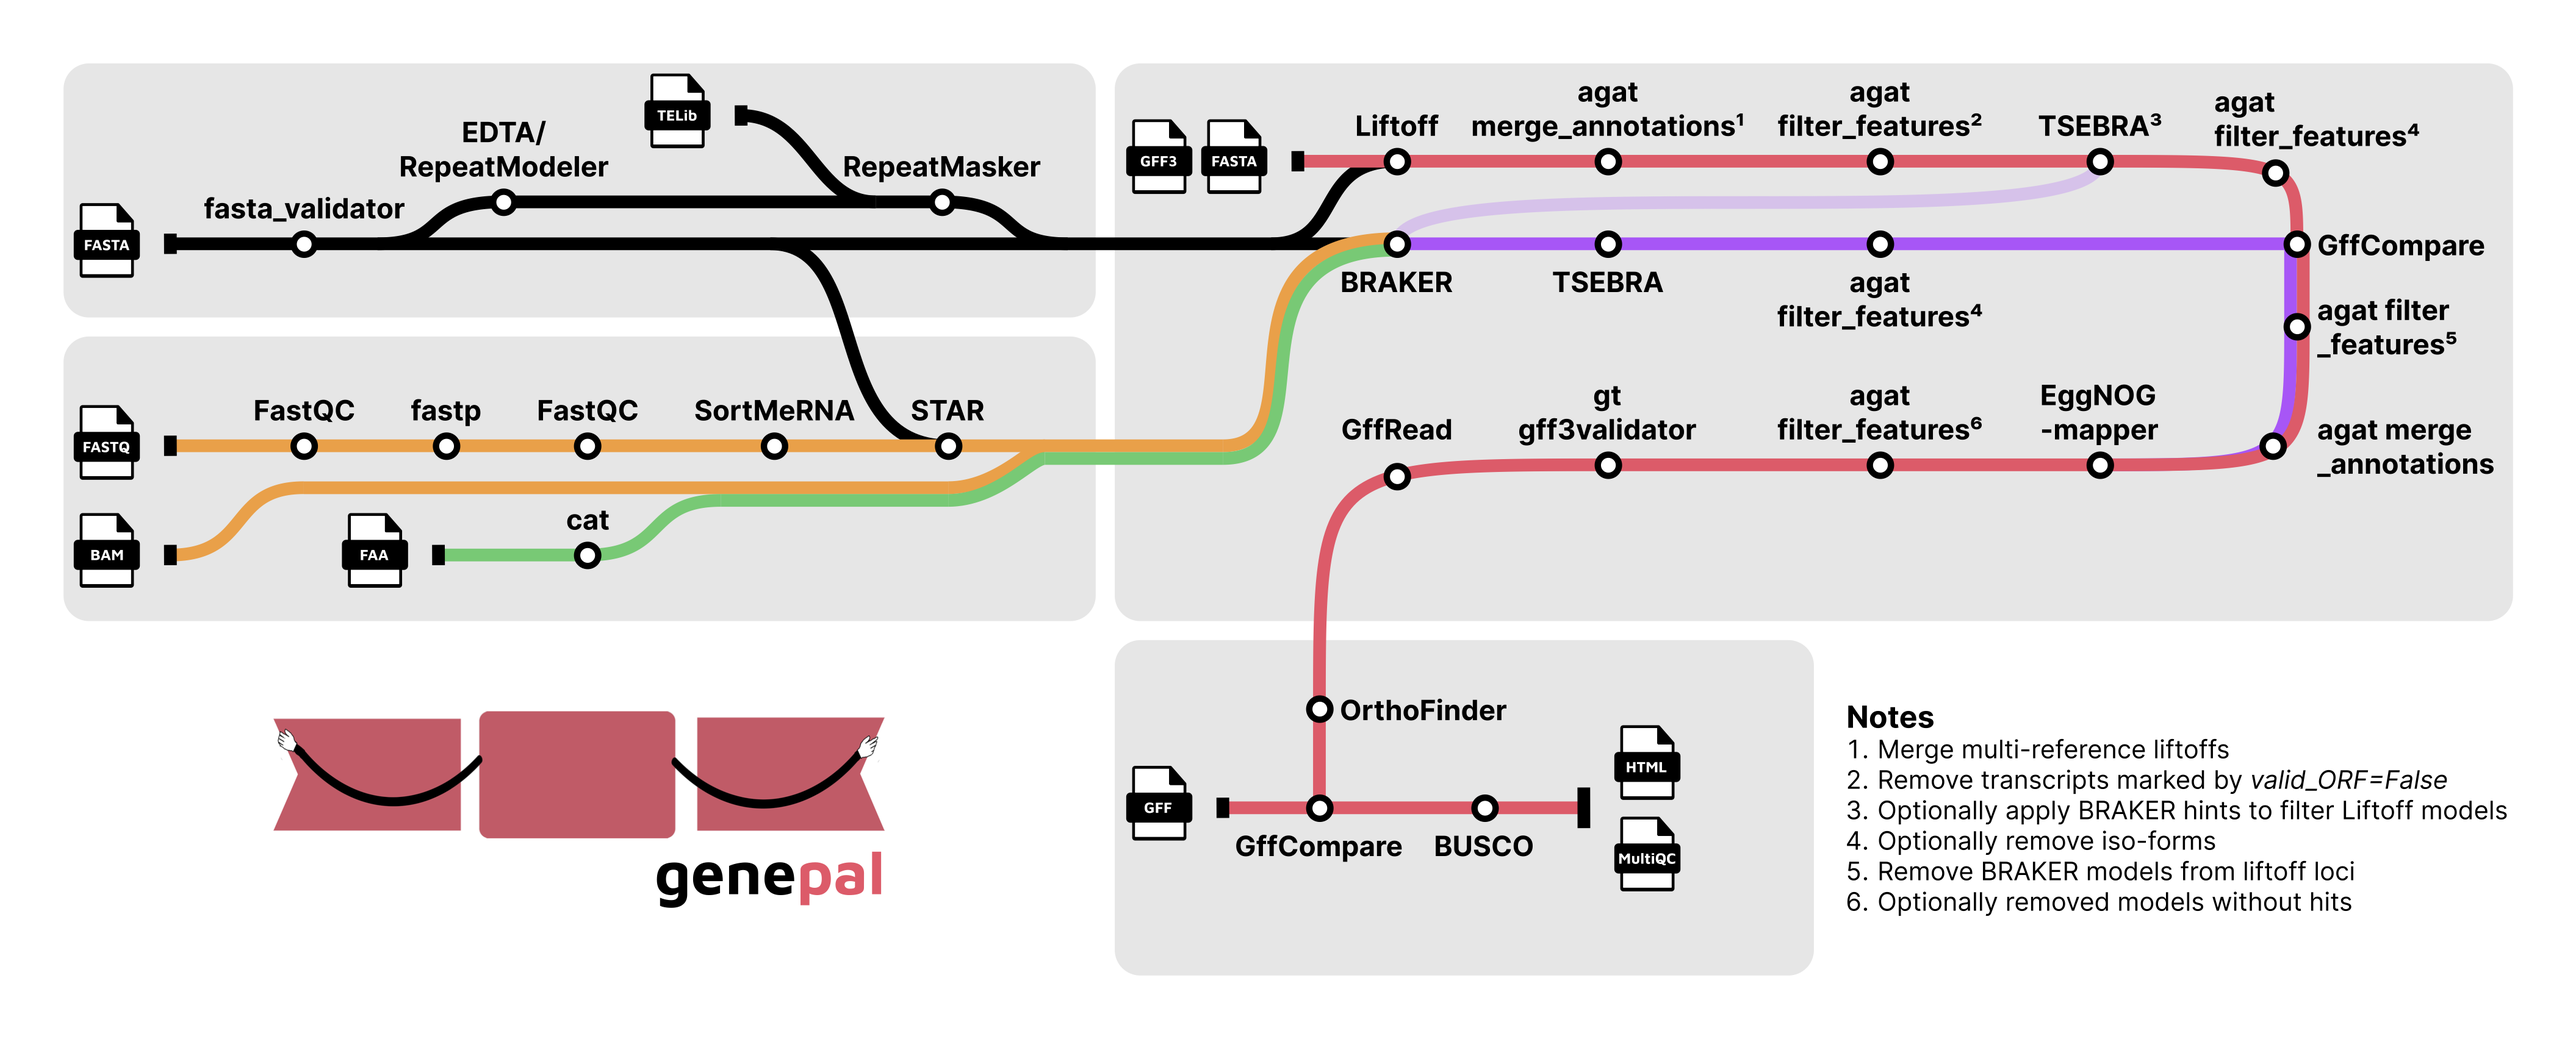
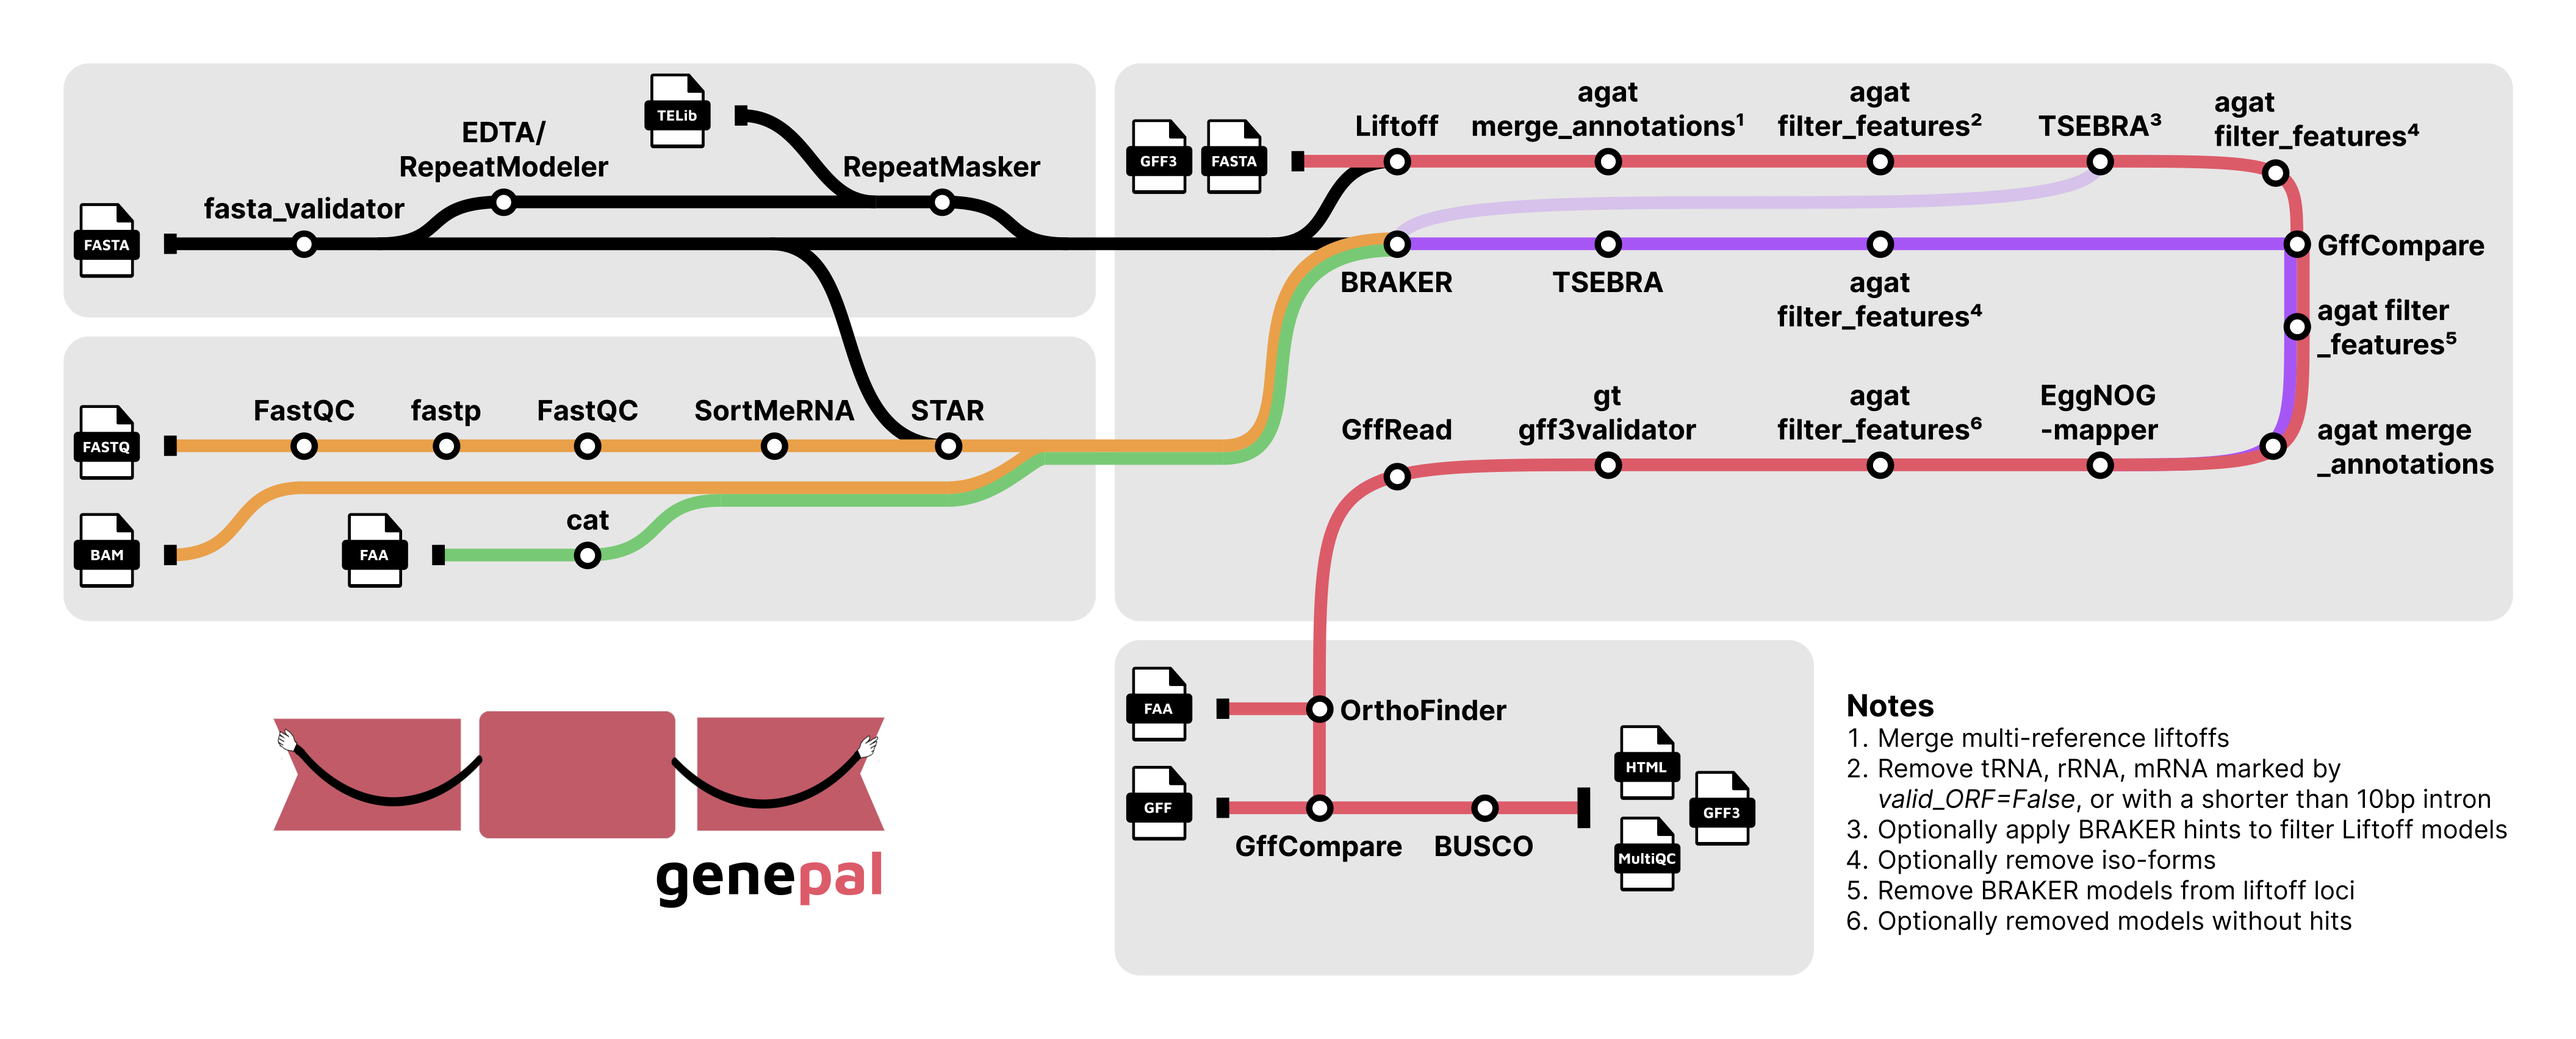
Added a large dataset for test_full

Changed region(s): [[0.7136, 0.6532, 0.9929, 0.902], [0.4344, 0.6221, 0.4964, 0.7154], [0.6516, 0.7465, 0.6826, 0.8398]]

diff --git a/docs/usage.md b/docs/usage.md
@@ -5,6 +5,7 @@
 > This document does not describe every pipeline parameter. For an exhaustive list of parameters, see [parameters.md](./parameters.md).
 
 - [Assemblysheet input](#assemblysheet-input)
+  - [Advanced inputs for manual resume](#advanced-inputs-for-manual-resume)
 - [Protein evidence](#protein-evidence)
   - [BRAKER workflow](#braker-workflow)
 - [RNASeq evidence](#rnaseq-evidence)
@@ -39,7 +40,17 @@ You will need to create an assemblysheet with information about the genome assem
 - `tag:` A unique tag which represents the target assembly throughout the pipeline. The `tag` and `fasta` file name should not be same, such as `tag.fasta`. This can create file name collisions in the pipeline or result in file overwrite. It is also a good-practice to make all the input files read-only.
 - `fasta:` FASTA file for the genome
 - `is_masked:` Whether the FASTA is masked or not? Use yes/no to indicate the masking. If the assembly is not masked. The pipeline will soft mask it before annotating it.
-- `te_lib [Optional]`: If an assembly is not masked and a TE library is available which cna be used to mask the assembly, the path of the TE library FASTA file can be provided here. If this column is absent and the assembly is not masked, the pipeline will first create a TE library so that it can soft mask the assembly.
+- `te_lib [Optional]:` If an assembly is not masked and a TE library is available which cna be used to mask the assembly, the path of the TE library FASTA file can be provided here. If this column is absent and the assembly is not masked, the pipeline will first create a TE library so that it can soft mask the assembly.
+- `benchmark [Optional]:` A GFF3 file which can be used to benchmark or compare the results of the pipeline against an existing annotation.
+
+### Advanced inputs for manual resume
+
+If the pipeline fails while processing large datasets, it is advisable to backup the repeat-masked genomes and the BRAKER outputs before attempting a [Nextflow resume](https://www.nextflow.io/docs/latest/cache-and-resume.html#caching-and-resuming). If the resume fails, these outputs from the first pipeline run can be used to setup a manual resume. This can be achieved by providing the repeat-masked genomes under the `fasta` column along with `is_masked` column set to `yes`. The BRAKER outputs can be provided under the following columns,
+
+- `braker_gff3 [Optional]:` BRAKER GFF3 file
+- `braker_hints [Optional]:` BRAKER hints file in GFF3 format
+
+The pipeline will automatically skip the repeat modelling, masking and BRAKER steps. It will still perform these steps for those genomes for which these files are not provided. These files are not saved by the pipeline by default. To save the files, set the `repeatmasker_save_outputs` and `braker_save_outputs` parameters to `true`.
 
 ## Protein evidence
 

diff --git a/README.md b/README.md
@@ -29,16 +29,16 @@
   - With protein evidence alone, [BRAKER workflow C](https://github.com/Gaius-Augustus/BRAKER/tree/f58479fe5bb13a9e51c3ca09cb9e137cab3b8471?tab=readme-ov-file#overview-of-modes-for-running-braker) is executed
   - With protein plus RNASeq evidence, [BRAKER workflow D](https://github.com/Gaius-Augustus/BRAKER/tree/f58479fe5bb13a9e51c3ca09cb9e137cab3b8471?tab=readme-ov-file#overview-of-modes-for-running-braker) is executed
 - [Liftoff](https://github.com/agshumate/Liftoff): Optionally, liftoff annotations from reference genome FASTA/GFF
-- [TSEBRA](https://github.com/Gaius-Augustus/TSEBRA)
-  - Ensure that each BRAKER model has [full intron support](./docs/usage.md#iso-forms-and-full-intron-support)
-  - Optionally, ensure that each Liftoff model has full intron support
+- [TSEBRA](https://github.com/Gaius-Augustus/TSEBRA): Optionally, ensure that each BRAKER or both BRAKER and Liftoff models have [full intron support](./docs/usage.md#iso-forms-and-full-intron-support)
 - [AGAT](https://github.com/NBISweden/AGAT)
   - Merge multi-reference liftoffs
   - Remove liftoff transcripts marked by _valid_ORF=False_
+  - Remove liftoff genes with any intron shorter than 10 bp
+  - Remove rRNA and tRNA from liftoff
   - Optionally, allow or remove iso-forms
   - Remove BRAKER models from Liftoff loci
-  - Optionally, remove models without any EggNOG-mapper hits
   - Merge Liftoff and BRAKER models
+  - Optionally, remove models without any EggNOG-mapper hits
 - [EggNOG-mapper](https://github.com/eggnogdb/eggnog-mapper): Add functional annotation to gff
 - [GenomeTools](https://github.com/genometools/genometools): GFF format validation
 - [GffRead](https://github.com/gpertea/gffread): Extraction of protein sequences

diff --git a/CHANGELOG.md b/CHANGELOG.md
@@ -3,7 +3,7 @@
 The format is based on [Keep a Changelog](https://keepachangelog.com/en/1.0.0/)
 and this project adheres to [Semantic Versioning](https://semver.org/spec/v2.0.0.html).
 
-## v0.5.0dev - [07-Nov-2024]
+## v0.5.0dev - [11-Nov-2024]
 
 ### `Added`
 
@@ -11,6 +11,10 @@ and this project adheres to [Semantic Versioning](https://semver.org/spec/v2.0.0
 2. Updated nf-core template to 3.0.2 [#66](https://github.com/PlantandFoodResearch/genepal/issues/66)
 3. Integrated nf-test into pipeline CI [#68](https://github.com/PlantandFoodResearch/genepal/issues/68)
 4. Updated the flowchart [#87](https://github.com/PlantandFoodResearch/genepal/issues/87)
+5. Added a large test dataset for the `test_full` profile [#90](https://github.com/PlantandFoodResearch/genepal/issues/90)
+6. Now `.gff.gz` and `.gff3.gz` inputs are also allowed for the `benchmark` column in `--input`
+7. Now removing liftoff genes with any intron shorted than 10bp [#89](https://github.com/Plant-Food-Research-Open/genepal/issues/89)
+8. Now also removing `rRNA` and `tRNA` after liftoff as the downstream logic in the pipeline can not correctly handle these
 
 ### `Fixed`
 

diff --git a/docs/output.md b/docs/output.md
@@ -119,7 +119,7 @@ RNASeq alignment is performed with [STAR](https://github.com/alexdobin/STAR). Al
 >
 > BRAKER outputs are not the final outputs from the pipeline and that's why they are not stored by default. These are only intermediary files.
 >
-> The pipeline further processes the BRAKER predictions and stores the final validated outputs in the `annotations` directory. The `braker_save_outputs` option is only provided to allow a manual resume of the pipeline for advanced use cases.
+> The pipeline further processes the BRAKER predictions and stores the final validated outputs in the `annotations` directory. The `braker_save_outputs` option is only provided to allow a manual resume of the pipeline for advanced use cases. See [Advanced inputs for manual resume](./usage.md#advanced-inputs-for-manual-resume) in the [usage doc](./usage.md).
 
 ### Annotation with Liftoff
 
